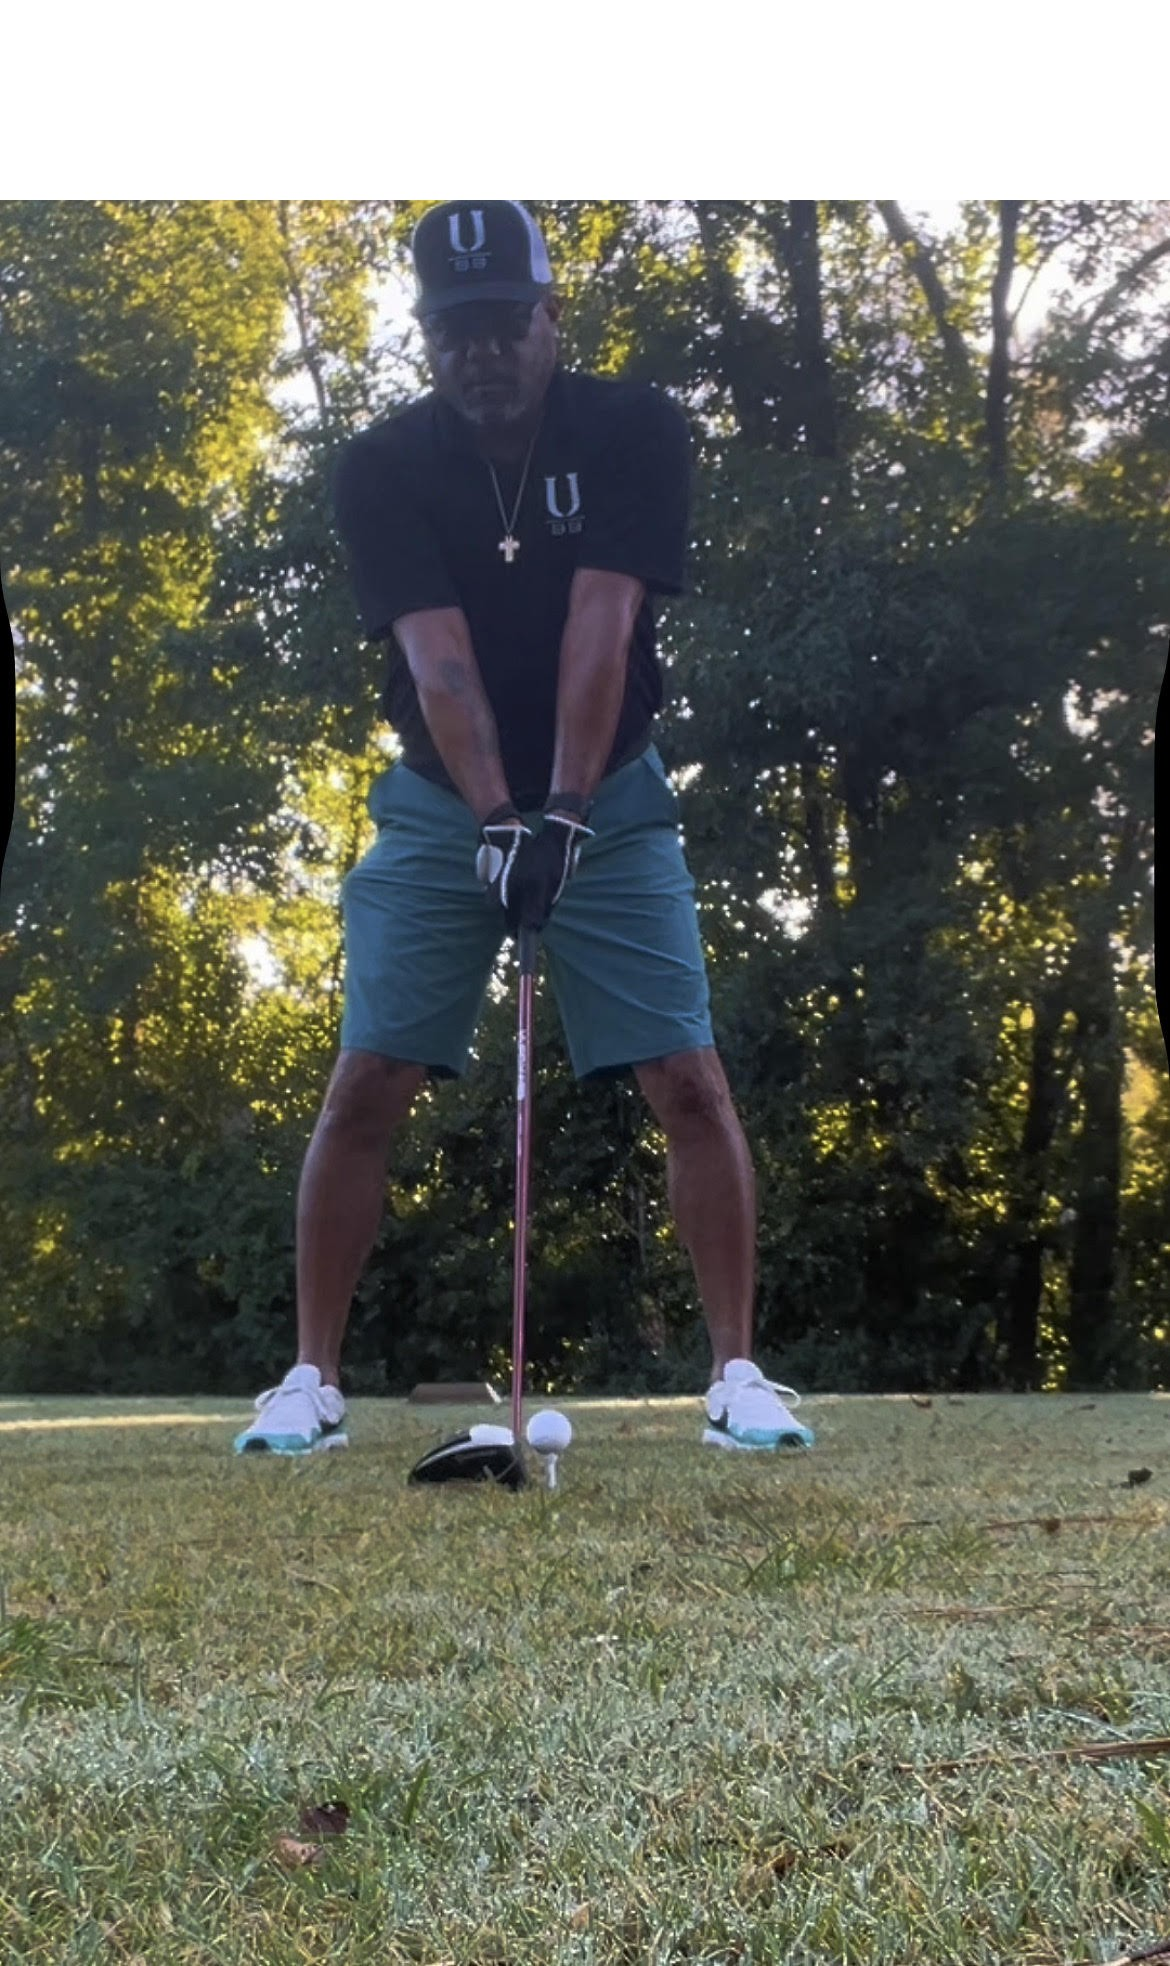
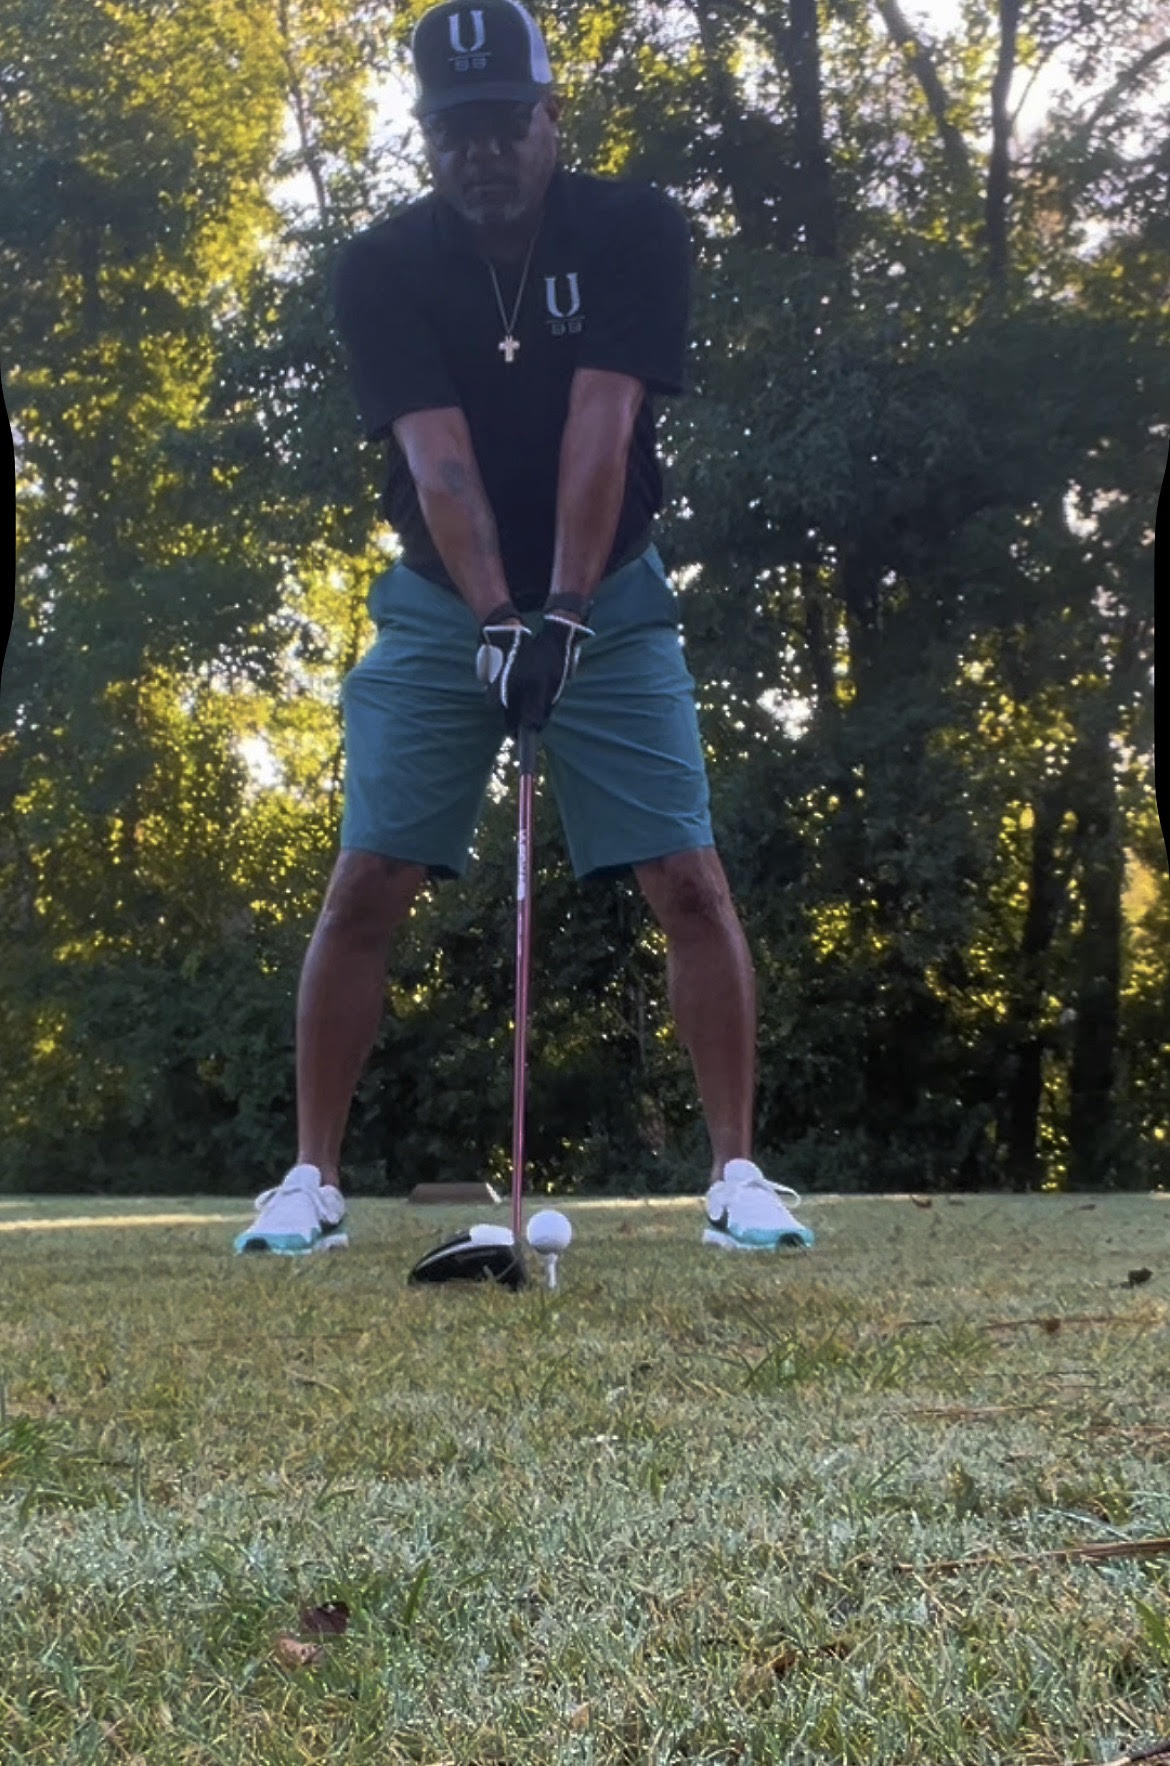
about: revert founder photo to original (no headroom padding)

diff --git a/src/styles/global.css b/src/styles/global.css
@@ -304,10 +304,10 @@ section.tight { padding: 48px 0; }
   display: block;
   width: 280px;
   max-width: 100%;
-  aspect-ratio: 3 / 5;
+  aspect-ratio: 2 / 3;
   border-radius: 12px;
   object-fit: cover;
-  object-position: 50% 12%;
+  object-position: 50% 65%;
   margin: 0 auto 24px;
   border: 3px solid var(--uah-gold);
   box-shadow: 0 4px 16px rgba(0,0,0,0.08);